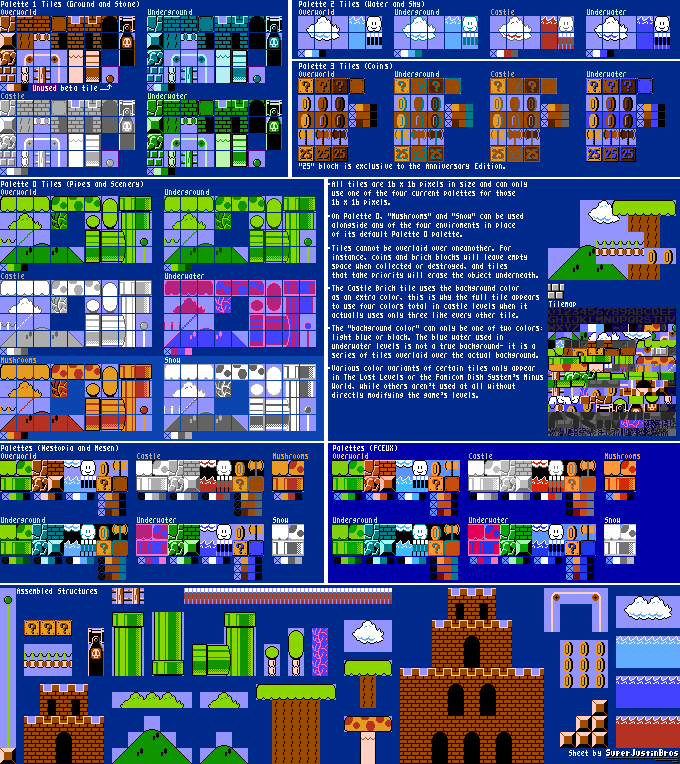
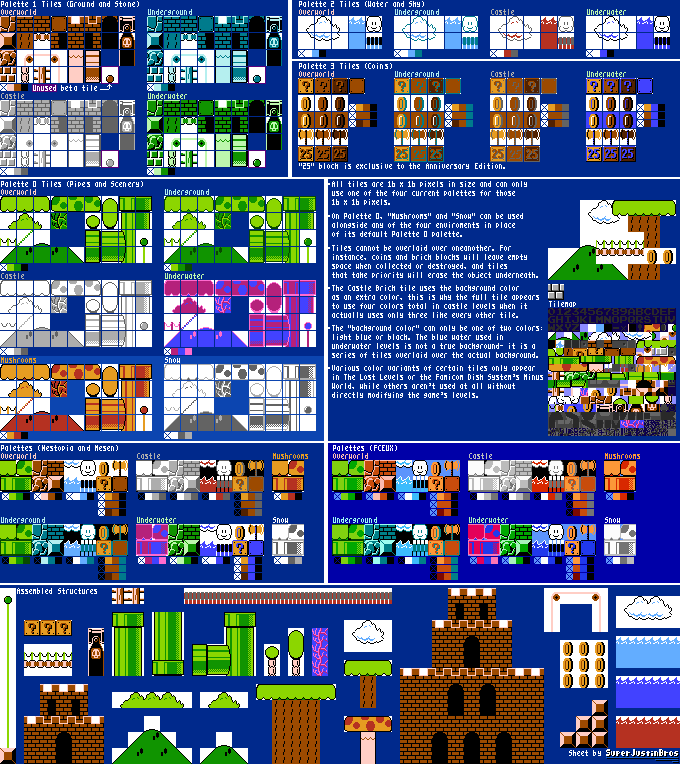
Updating debugging code and removing some background colour from the tile image

diff --git a/src/main/java/it/unibo/superpeach/blocks/Block.java b/src/main/java/it/unibo/superpeach/blocks/Block.java
@@ -1,8 +1,6 @@
 package it.unibo.superpeach.blocks;
 
-import java.awt.Color;
 import java.awt.Graphics;
-import java.awt.Graphics2D;
 import java.awt.Rectangle;
 import java.awt.image.BufferedImage;
 
@@ -10,6 +8,8 @@ import it.unibo.superpeach.blocks.graphics.Texturer;
 import it.unibo.superpeach.game.Game;
 
 public abstract class Block {
+    public enum BlockType {LUCKY, BRICK, TERRAIN};
+
     private double x;
     private double y;
     private double width;
@@ -19,17 +19,26 @@ public abstract class Block {
     private Texturer texturer = Game.getBlocksTexturer();
     private BufferedImage[] sprites;
 
+    private BlockType type;
+
     public Block(double x, double y, double w, double h, int s){
         this.x = x*s;
         this.y = y*s;
         this.width = w*s;
         this.height = h*s;
         this.scale = s;
-        this.sprites = texturer.getLucky();
     }
 
     public abstract void tick();
     public abstract void render(Graphics g);
+
+    public Texturer getTexturer() {
+        return texturer;
+    }
+
+    public BlockType getType() {
+        return type;
+    }
 
     public Rectangle getTopBound(){
         return new Rectangle((int)x, (int)y, (int)width, 0);
@@ -45,15 +54,6 @@ public abstract class Block {
 
     public Rectangle getRightBound(){
         return new Rectangle((int)(x+width), (int)y, 0, (int)height);
-    }
-
-    public void showBorders(Graphics g){
-        Graphics2D g2d = (Graphics2D)g;
-        g2d.setColor(Color.BLACK);
-        g2d.draw(getTopBound());
-        g2d.draw(getBotBound());
-        g2d.draw(getLeftBound());
-        g2d.draw(getRightBound());
     }
 
     public double getHeight() {
@@ -78,6 +78,14 @@ public abstract class Block {
 
     public BufferedImage[] getSprites() {
         return sprites;
+    }
+
+    public void setSprites(BufferedImage[] sprites) {
+        this.sprites = sprites;
+    }
+
+    public void setType(BlockType type) {
+        this.type = type;
     }
 
     public void setHeight(double height) {

diff --git a/src/main/java/it/unibo/superpeach/blocks/MapFixedBlock.java b/src/main/java/it/unibo/superpeach/blocks/MapFixedBlock.java
@@ -4,8 +4,9 @@ import java.awt.Graphics;
 
 public class MapFixedBlock extends Block{
 
-    public MapFixedBlock(double x, double y, double w, double h, int s) {
-        super(x, y, w, h, s);
+    public MapFixedBlock(double x, double y, double width, double height, int scale, BlockType type) {
+        super(x, y, width, height, scale);
+        setType(type);
     }
 
     @Override
@@ -14,8 +15,22 @@ public class MapFixedBlock extends Block{
 
     @Override
     public void render(Graphics g) {
-        g.drawImage(getSprites()[0], (int)getX(), (int)getY(), (int)getWidth(), (int)getHeight(), null);
-        showBorders(g);
+        switch (getType()) {
+            case TERRAIN:
+                setSprites(getTexturer().getBricksCastle());
+                g.drawImage(getSprites()[0], (int)getX(), (int)getY(), (int)getWidth(), (int)getHeight(), null);
+                break;
+
+            case LUCKY:
+                setSprites(getTexturer().getLucky());
+                g.drawImage(getSprites()[0], (int)getX(), (int)getY(), (int)getWidth(), (int)getHeight(), null);
+                break;
+
+            case BRICK:
+                setSprites(getTexturer().getBricksCastle());
+                g.drawImage(getSprites()[2], (int)getX(), (int)getY(), (int)getWidth(), (int)getHeight(), null);
+                break;
+        }
     }
 
 }

diff --git a/src/main/java/it/unibo/superpeach/game/Game.java b/src/main/java/it/unibo/superpeach/game/Game.java
@@ -5,6 +5,7 @@ import java.awt.Color;
 import java.awt.Graphics;
 import java.awt.image.BufferStrategy;
 
+import it.unibo.superpeach.blocks.Block.BlockType;
 import it.unibo.superpeach.blocks.BlocksHandler;
 import it.unibo.superpeach.blocks.MapFixedBlock;
 import it.unibo.superpeach.blocks.graphics.Texturer;
@@ -41,10 +42,14 @@ public class Game extends Canvas implements Runnable{
         blocksTexturer = new Texturer();
         blocksHandler = new BlocksHandler();
         for (int i = 0; i < 20; i++) {
-            blocksHandler.addBlock(new MapFixedBlock(i*32, 32*10, 32, 32, 1));
+            blocksHandler.addBlock(new MapFixedBlock(i*32, 32*14, 32, 32, 1, BlockType.LUCKY));
+            blocksHandler.addBlock(new MapFixedBlock(i*32+32, 32*14, 32, 32, 1, BlockType.BRICK));
+            i++;
         }
         for (int i = 0; i < 30; i++) {
-            blocksHandler.addBlock(new MapFixedBlock(i*32, 32*15, 32, 32, 1));
+            blocksHandler.addBlock(new MapFixedBlock(i*32, 32*19, 32, 32, 1, BlockType.TERRAIN));
+            blocksHandler.addBlock(new MapFixedBlock(i*32, 32*20, 32, 32, 1, BlockType.TERRAIN));
+            blocksHandler.addBlock(new MapFixedBlock(i*32, 32*21, 32, 32, 1, BlockType.TERRAIN));
         }
         start();
     }
